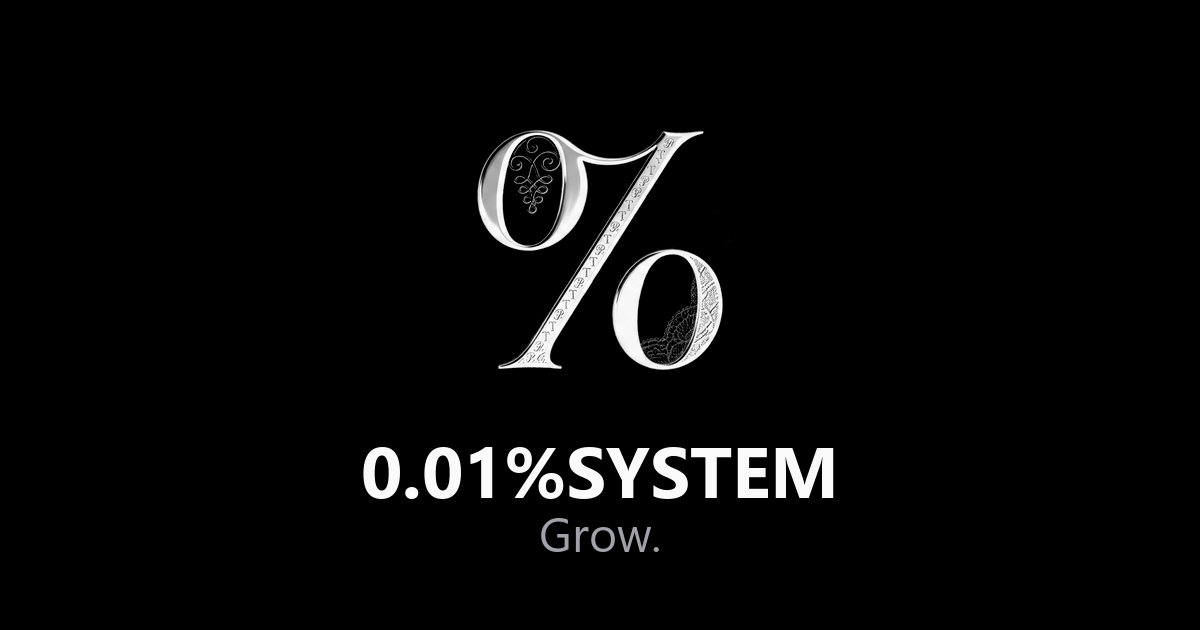
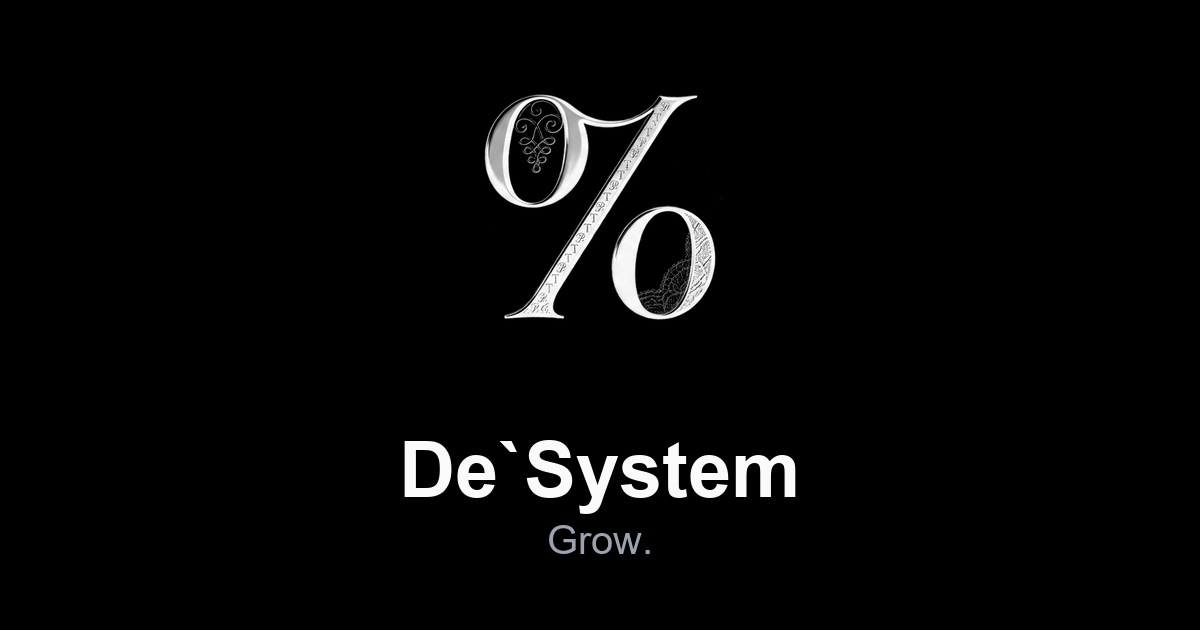
feat: rebrand to De`System and retire donations

Changed region(s): [[0.4008, 0.1508, 0.6167, 0.6032], [0.2775, 0.6937, 0.7092, 0.8746]]

diff --git a/src/app/privacy/page.tsx b/src/app/privacy/page.tsx
@@ -1,15 +1,15 @@
 import type { Metadata } from "next";
 
 export const metadata: Metadata = {
-  title: "Privacy · 0.01%SYSTEM",
-  description: "What 0.01%SYSTEM collects, why, and how to get it back or deleted.",
+  title: "Privacy · De`System",
+  description: "What De`System collects, why, and how to get it back or deleted.",
 };
 
 const SECTIONS: { heading: string; body: string[] }[] = [
   {
     heading: "Who we are",
     body: [
-      "0.01%SYSTEM is a project of C. Levi Company. This policy explains what we collect when you use the service, why we collect it, and the choices you have.",
+      "De`System is a project of C. Levi Company. This policy explains what we collect when you use the service, why we collect it, and the choices you have.",
     ],
   },
   {
@@ -19,7 +19,7 @@ const SECTIONS: { heading: string; body: string[] }[] = [
       "Profile: the display name, interest, bio and goals you enter, plus an avatar image if you upload one.",
       "Community activity: the groups you join, join requests you send or receive, votes you cast (including any reason you leave for a no vote), signal up and down votes, and the invite links created inside your groups.",
       "Content: books you upload or buy, the descriptions and prices you set, reviews and ratings you write, and courses you upload or watch.",
-      "Payments: for paid books and donations we keep the transaction reference, amount, status and the email used, processed by Paystack.",
+      "Payments: for paid books we keep the transaction reference, amount, status and the email used, processed by Paystack.",
       "Waitlist: if you ask to be notified about the desktop apps, we store your email and which list you joined.",
       "Downloads: we issue time-limited signed links to files, and we log that a download was issued.",
       "App analytics: if you publish an app, we record aggregate listing events (views, outbound clicks, country, device, referring site and campaign tags) tied to a daily rotating anonymous hash. We never store the raw IP address or browser string for analytics.",
@@ -91,7 +91,7 @@ export default function Privacy() {
       </div>
 
       <p className="mt-6 text-xs text-zinc-400">
-        0.01%SYSTEM · From C. Levi Company
+        De`System · From C. Levi Company
       </p>
     </div>
   );

diff --git a/src/app/terms/page.tsx b/src/app/terms/page.tsx
@@ -1,15 +1,15 @@
 import type { Metadata } from "next";
 
 export const metadata: Metadata = {
-  title: "Terms · 0.01%SYSTEM",
-  description: "The rules for using 0.01%SYSTEM: accounts, community voting, uploads, payments and donations.",
+  title: "Terms · De`System",
+  description: "The rules for using De`System: accounts, community voting, uploads, payments.",
 };
 
 const SECTIONS: { heading: string; body: string[] }[] = [
   {
     heading: "Acceptance",
     body: [
-      "By using 0.01%SYSTEM you agree to these terms. If you do not agree, do not use the service. We may update these terms; continuing to use the service after a change means you accept the revised version.",
+      "By using De`System you agree to these terms. If you do not agree, do not use the service. We may update these terms; continuing to use the service after a change means you accept the revised version.",
     ],
   },
   {
@@ -40,7 +40,6 @@ const SECTIONS: { heading: string; body: string[] }[] = [
     body: [
       "Paid books are sold in US dollars through Paystack. The minimum price for a paid book is $2.99. Downloads are served through private signed links that work once per purchase and expire.",
       "Author payouts run through Paystack subaccounts and splits, and the platform keeps a 10% share of each sale. Sellers are responsible for their own taxes and for refunds they approve.",
-      "Donations are optional, processed by Paystack, and never required for any part of the service.",
       "Refunds for digital purchases are handled case by case. Email us with your Paystack reference and we will sort it out. Where a file has already been downloaded, we may decline a refund.",
     ],
   },
@@ -101,7 +100,7 @@ export default function Terms() {
       </div>
 
       <p className="mt-6 text-xs text-zinc-400">
-        0.01%SYSTEM · From C. Levi Company
+        De`System · From C. Levi Company
       </p>
     </div>
   );

diff --git a/src/components/settings/SettingsForm.tsx b/src/components/settings/SettingsForm.tsx
@@ -5,17 +5,8 @@ import { useFormStatus } from "react-dom";
 import { saveSettings, type FormState } from "@/lib/actions/settings";
 import { INTERESTS } from "@/lib/domain";
 import type { Profile } from "@/lib/auth";
-import type { DonateSurface } from "@/lib/donate";
 
 const initial: FormState = {};
-
-const SURFACES: { key: DonateSurface; label: string }[] = [
-  { key: "home", label: "Home" },
-  { key: "ebooku", label: "Ebooku" },
-  { key: "suggy", label: "Suggy" },
-  { key: "apps", label: "Apps" },
-];
-
 function Submit() {
   const { pending } = useFormStatus();
   return (
@@ -71,23 +62,6 @@ export function SettingsForm({ profile }: { profile: Profile | null }) {
           placeholder="Goals"
           className="w-full rounded-md border hairline bg-black px-3 py-2 text-sm"
         />
-      </div>
-
-      <div className="card p-6">
-        <h2 className="text-sm font-medium">Support button visibility</h2>
-        <p className="text-sm text-zinc-400">Toggle per location. Reversible.</p>
-        <div className="mt-4 space-y-3">
-          {SURFACES.map((s) => (
-            <label key={s.key} className="flex items-center justify-between text-sm">
-              <span>{s.label}</span>
-              <input
-                type="checkbox"
-                name={`donate_${s.key}`}
-                defaultChecked={profile?.donate_surfaces?.[s.key] !== false}
-              />
-            </label>
-          ))}
-        </div>
       </div>
 
       {state.error && <p className="text-xs text-red-400">{state.error}</p>}

diff --git a/src/app/page.tsx b/src/app/page.tsx
@@ -1,8 +1,8 @@
 import Image from "next/image";
 import Link from "next/link";
 import { Users, BookOpen, Lightbulb, AppWindow, GraduationCap } from "lucide-react";
-import { DonateButton } from "@/components/DonateButton";
 import { getUser } from "@/lib/auth";
+import { SITE } from "@/lib/nav";
 
 export const instant = false;
 
@@ -19,8 +19,8 @@ export default async function Landing() {
   return (
     <div className="mx-auto max-w-6xl px-4">
       <section className="py-20 text-center">
-        <Image src="/logo.png" alt="0.01%SYSTEM" width={406} height={396} className="mx-auto h-16 w-auto" priority />
-        <p className="mt-4 text-xs uppercase tracking-widest text-zinc-400">0.01%SYSTEM</p>
+        <Image src="/logo.png" alt={SITE.name} width={406} height={396} className="mx-auto h-16 w-auto" priority />
+        <p className="mt-4 text-xs tracking-widest text-zinc-400">{SITE.name}</p>
         <h1 className="mt-3 text-5xl font-semibold tracking-tight">Grow.</h1>
         <p className="mx-auto mt-4 max-w-xl text-zinc-400">
           For those who aspire. Build something great. Find your people.
@@ -35,9 +35,6 @@ export default async function Landing() {
           <Link href="/findem" className="btn-pill border hairline px-6 py-3 text-sm text-zinc-200">
             Explore
           </Link>
-        </div>
-        <div className="mt-6 flex justify-center">
-          <DonateButton surface="home" />
         </div>
       </section>
 

diff --git a/src/app/layout.tsx b/src/app/layout.tsx
@@ -8,13 +8,14 @@ import { AppContent } from "@/components/shell/AppContent";
 import { AppSidebar } from "@/components/shell/AppSidebar";
 import { SidebarAccount } from "@/components/shell/SidebarAccount";
 import { SidebarProvider } from "@/components/shell/sidebar-context";
+import { SITE } from "@/lib/nav";
 
 const geistSans = Geist({ variable: "--font-geist-sans", subsets: ["latin"] });
 const geistMono = Geist_Mono({ variable: "--font-geist-mono", subsets: ["latin"] });
 
 export const metadata: Metadata = {
   metadataBase: new URL(process.env.NEXT_PUBLIC_SITE_URL ?? "http://localhost:3000"),
-  title: "0.01%SYSTEM · Grow",
+  title: `${SITE.name} · Grow`,
   description: "Find your people. Build. Grow.",
   icons: {
     icon: [
@@ -25,7 +26,7 @@ export const metadata: Metadata = {
     apple: "/apple-touch-icon.png",
   },
   openGraph: {
-    title: "0.01%SYSTEM · Grow",
+    title: `${SITE.name} · Grow`,
     description: "Find your people. Build. Grow.",
     images: ["/og-image.png"],
   },

diff --git a/src/app/ebooku/page.tsx b/src/app/ebooku/page.tsx
@@ -1,9 +1,6 @@
 import Link from "next/link";
-import { DonateButton } from "@/components/DonateButton";
 import { EbookCard } from "@/components/ebooku/EbookCard";
 import { listEbooks, type PriceFilter } from "@/lib/data/ebooks";
-import { getProfile } from "@/lib/auth";
-import { donateVisible } from "@/lib/donate";
 
 export const instant = false;
 
@@ -20,7 +17,7 @@ export default async function Ebooku({
 }) {
   const { price } = await searchParams;
   const filter: PriceFilter = price === "free" || price === "paid" ? price : "all";
-  const [books, profile] = await Promise.all([listEbooks(filter), getProfile()]);
+  const books = await listEbooks(filter);
 
   return (
     <div className="mx-auto max-w-6xl px-4 py-10">
@@ -59,11 +56,6 @@ export default async function Ebooku({
         ))}
       </div>
 
-      {donateVisible(profile, "ebooku") && (
-        <div className="mt-6">
-          <DonateButton surface="ebooku" />
-        </div>
-      )}
     </div>
   );
 }

diff --git a/src/components/shell/AppSidebar.tsx b/src/components/shell/AppSidebar.tsx
@@ -14,6 +14,7 @@ import {
   COMPANY_NAV,
   CONTRIBUTE_NAV,
   NAV_LINKS,
+  SITE,
   WORK_NAV,
   type NavItem,
 } from "@/lib/nav";
@@ -225,7 +226,7 @@ export function AppSidebar({ account }: { account: ReactNode }) {
           <Link
             href="/"
             onClick={closeMobile}
-            aria-label="0.01%SYSTEM home"
+            aria-label={`${SITE.name} home`}
             className={cn(
               "flex min-w-0 flex-1 items-center gap-2 rounded-lg p-1.5 hover:bg-white/5 focus-visible:outline-none focus-visible:ring-2 focus-visible:ring-white/40",
               collapsed && "md:hidden",
@@ -240,7 +241,7 @@ export function AppSidebar({ account }: { account: ReactNode }) {
               priority
             />
             <span className="truncate text-sm font-semibold tracking-tight">
-              0.01%SYSTEM
+              {SITE.name}
             </span>
           </Link>
           <button

diff --git a/src/components/Navbar.tsx b/src/components/Navbar.tsx
@@ -3,6 +3,7 @@ import Link from "next/link";
 import { Suspense } from "react";
 import { AuthNav } from "@/components/AuthNav";
 import { MenuButton } from "@/components/shell/MenuButton";
+import { SITE } from "@/lib/nav";
 
 function AuthFallback() {
   return (
@@ -32,14 +33,14 @@ export function Navbar() {
           <Link href="/" className="flex min-w-0 items-center gap-2">
             <Image
               src="/logo.png"
-              alt="0.01%SYSTEM"
+              alt={SITE.name}
               width={406}
               height={396}
               className="h-8 w-auto"
               priority
             />
             <span className="hidden truncate text-sm font-semibold tracking-tight sm:inline">
-              0.01%SYSTEM <span className="text-zinc-400">· Grow</span>
+              {SITE.name} <span className="text-zinc-400">· Grow</span>
             </span>
           </Link>
         </div>

diff --git a/src/lib/actions/settings.ts b/src/lib/actions/settings.ts
@@ -20,13 +20,6 @@ export async function saveSettings(_prev: FormState, formData: FormData): Promis
   if (bio.length > 1000) return { error: "Bio is too long." };
   if (!INTERESTS.some((i) => i.slug === interest)) return { error: "Pick a valid interest." };
 
-  const donate_surfaces = {
-    home: formData.get("donate_home") === "on",
-    ebooku: formData.get("donate_ebooku") === "on",
-    suggy: formData.get("donate_suggy") === "on",
-    apps: formData.get("donate_apps") === "on",
-  };
-
   const sb = await supabaseServer();
   const { error } = await sb
     .from("profiles")
@@ -35,7 +28,6 @@ export async function saveSettings(_prev: FormState, formData: FormData): Promis
       interest,
       bio: bio || null,
       goals: goals || null,
-      donate_surfaces,
     })
     .eq("id", user.id);
 

diff --git a/src/app/apps/page.tsx b/src/app/apps/page.tsx
@@ -1,14 +1,10 @@
 import Link from "next/link";
-import { DonateButton } from "@/components/DonateButton";
 import { AppCard } from "@/components/apps/AppCard";
 import { listApps } from "@/lib/data/apps";
-import { getProfile } from "@/lib/auth";
-import { donateVisible } from "@/lib/donate";
 
 export const instant = false;
 
 export default async function Apps() {
-  const profile = await getProfile();
   const apps = await listApps();
 
   return (
@@ -38,11 +34,6 @@ export default async function Apps() {
         </div>
       )}
 
-      {donateVisible(profile, "apps") && (
-        <div className="mt-10 border-t hairline pt-6">
-          <DonateButton surface="apps" />
-        </div>
-      )}
     </div>
   );
 }

diff --git a/src/app/api/webhooks/paystack/route.ts b/src/app/api/webhooks/paystack/route.ts
@@ -80,21 +80,6 @@ export async function POST(req: Request) {
         break;
       }
 
-      const meta = d.metadata ?? {};
-      if (String(meta.kind ?? "") === "donation") {
-        if (!reference || currency !== "USD" || amount < 200) break;
-        const { error } = await admin.from("donations").upsert(
-          {
-            reference,
-            amount_cents: amount,
-            currency,
-            surface: String(meta.surface ?? "home"),
-            email: String(d.customer?.email ?? ""),
-          },
-          { onConflict: "reference" }
-        );
-        if (error) return NextResponse.json({ error: "Database error" }, { status: 500 });
-      }
       break;
     }
     case "charge.failed": {

diff --git a/src/app/home/page.tsx b/src/app/home/page.tsx
@@ -1,8 +1,6 @@
 import Link from "next/link";
 import { redirect } from "next/navigation";
-import { DonateButton } from "@/components/DonateButton";
 import { getProfile } from "@/lib/auth";
-import { donateVisible } from "@/lib/donate";
 import { myGroups } from "@/lib/data/groups";
 import { trendingSignals } from "@/lib/data/suggy";
 import { recentEbooks } from "@/lib/data/ebooks";
@@ -113,11 +111,6 @@ export default async function HomePage() {
         </div>
       </div>
 
-      {donateVisible(profile, "home") && (
-        <div className="mt-6">
-          <DonateButton surface="home" />
-        </div>
-      )}
     </div>
   );
 }
